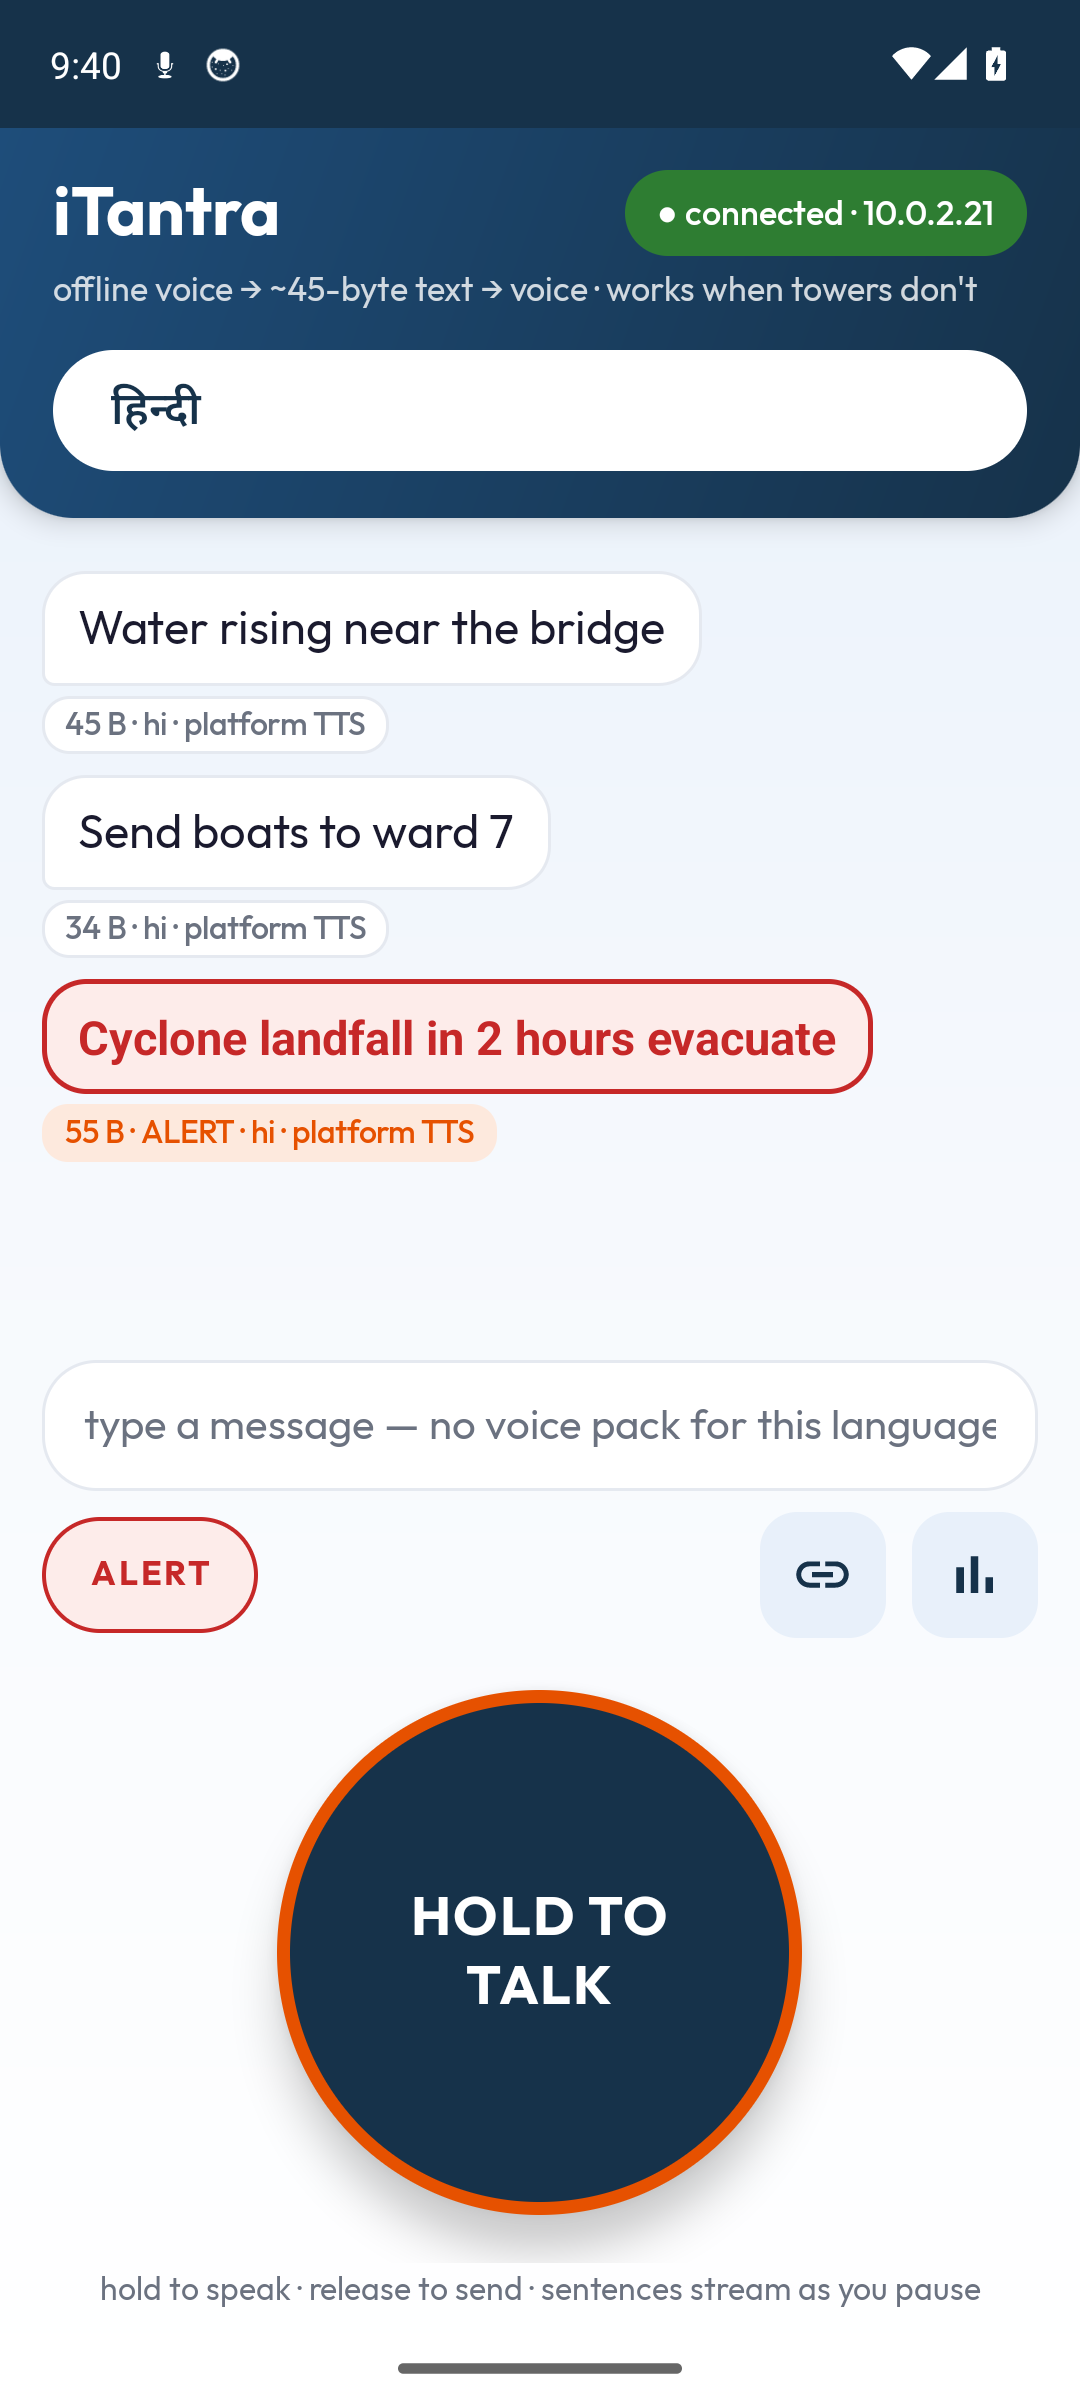
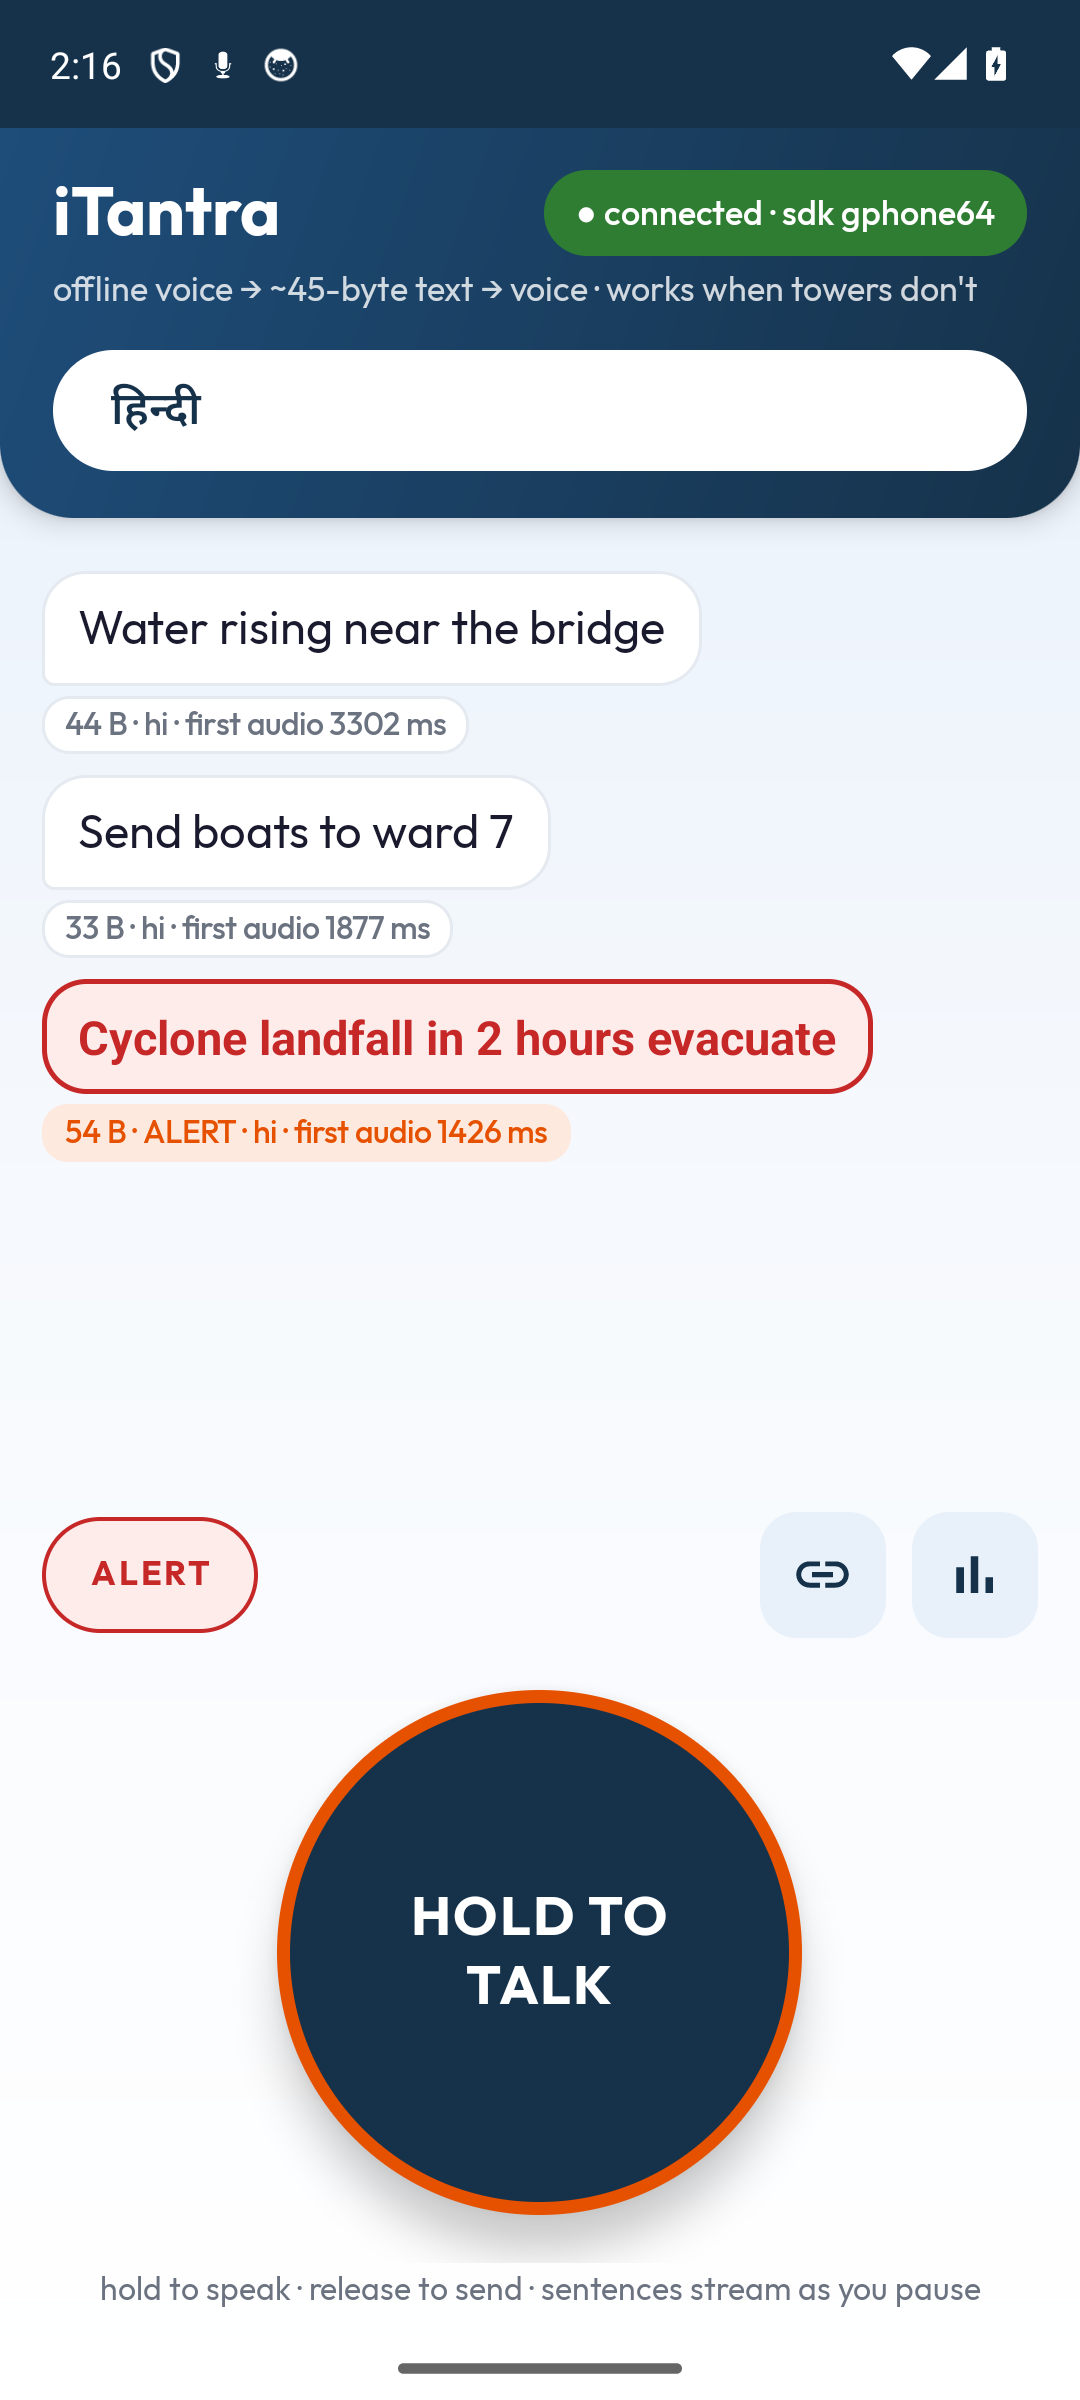
app: post-merge fixes (phrase chip on new tokens, resilience grep for new chip text), final suite logs + screenshots on the merged UI/relay build; handoff log

diff --git a/app/src/main/java/com/nullpointers/itantra/MainActivity.kt b/app/src/main/java/com/nullpointers/itantra/MainActivity.kt
@@ -681,8 +681,8 @@ class MainActivity : Activity() {
             this.text = text
             textSize = 12f
             typeface = resources.getFont(R.font.outfit_medium)
-            setTextColor(getColor(R.color.orange))
-            setBackgroundResource(R.drawable.chip_orange)
+            setTextColor(getColor(R.color.warnText))
+            setBackgroundResource(R.drawable.chip_status_warn)
             setPadding(dp(9), dp(4), dp(9), dp(4))
             layoutParams = LinearLayout.LayoutParams(
                 LinearLayout.LayoutParams.WRAP_CONTENT, LinearLayout.LayoutParams.WRAP_CONTENT

diff --git a/app/testlogs/summary.md b/app/testlogs/summary.md
@@ -1,7 +1,5 @@
 
 | speed:delay | connected | bubbles on B | dupes | ALERT chip | latency host (ms) | latency logcat (ms) | result |
 |---|---|---|---|---|---|---|---|
-| full:none | ✓ | 3/3 | 0 | ✓ | 3915 3782 4182 | 12,19,16 | PASS |
-| gsm:gsm | ✓ | 3/3 | 0 | ✓ | 3895 3695 3177 | 100,8,13 | PASS |
-| edge:edge | ✓ | 3/3 | 0 | ✓ | 3770 3081 2793 | 23,8,5 | PASS |
-| 1:1000 | ✓ | 3/3 | 0 | ✓ | 2887 3055 3445 | 21,10,5 | PASS |
+| full:none | ✓ | 3/3 | 0 | ✓ | 2703 2539 2822 | -125,-110,-122 | PASS |
+| gsm:gsm | ✓ | 3/3 | 0 | ✓ | 2466 2434 2274 | -120,-119,-127 | PASS |
